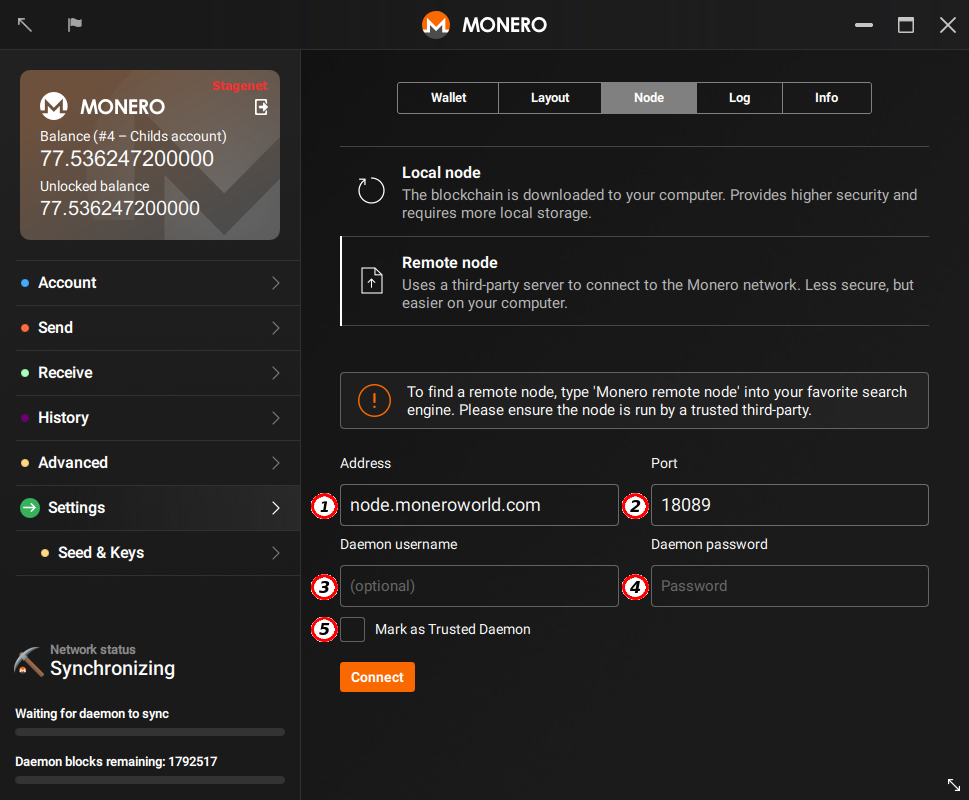
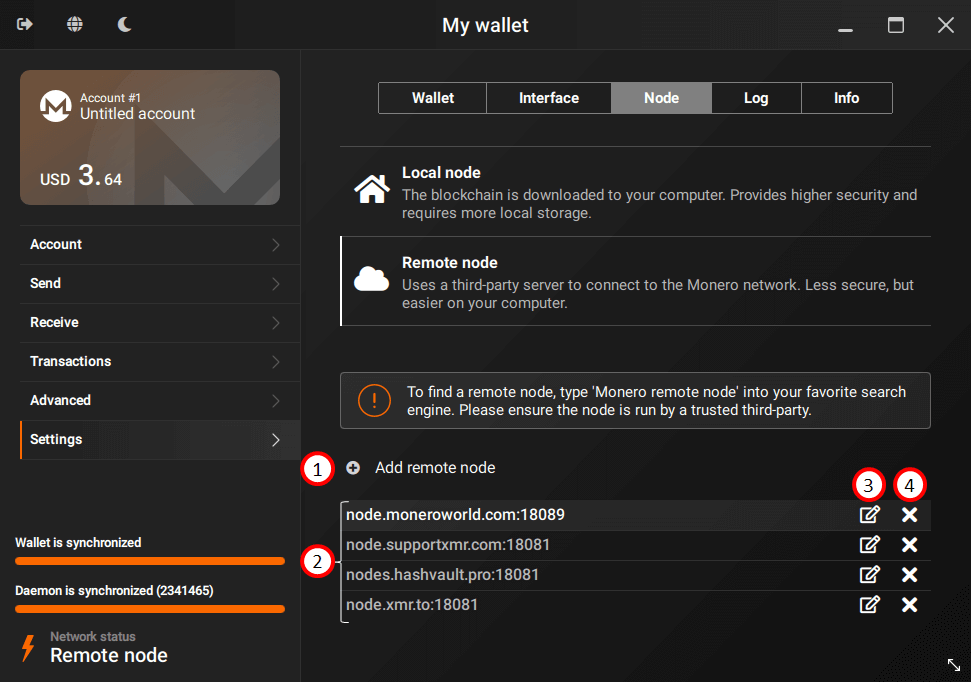
ch09: new remote node list (#207)
* ch09: update Settings > Node > Remote node

* Update ch09.md

diff --git a/en/ch09.md b/en/ch09.md
@@ -28,7 +28,7 @@ The `Interface` tab is where you can adjust appearance and security settings of 
 (9) **Enable displaying balance in other currencies:** Gives you the possibility to also display your balance, the transaction amount and transaction fee in other currencies. You can select the price source and the currency you prefer (currently only *USD* and *EUR* are supported).  
 (10) **Socks5 proxy:** enable this option to proxy Monero GUI connections (remote node, updates searching/downloading, fetching prices) through a Socks5 proxy. This option is automatically enabled on Tails (a version of the Linux operating system optimized for anonymity). If you are using standalone Tor, use default port 9050. If you are using Tor Browser, use port 9150 and open Tor Browser before connecting.
 
-### Local Node
+### Node: Local node
 ![settings_local-node](media/black_settings-node-local_node.png)
 
 (1) **Start/Stop Local Node:** Depending on its current state, either start or stop the local node.  
@@ -37,16 +37,25 @@ The `Interface` tab is where you can adjust appearance and security settings of 
 (4) **Bootstrap Address:** Enter the hostname or IP address of the bootstrap remote node. See section [Bootstrap nodes](#bootstrap-nodes) for a brief explanation of what a bootstrap node is.  
 (5) **Bootstrap Port:** Enter the port of the bootstrap remote node.  
 
-### Remote Node
-Use a remote node, do not download the blockchain. Check the ['About remote nodes' section](#about-remote-nodes) of this guide.
+### Node: Remote node
+Select this option if you want your Monero GUI to connect to the Monero network using a remote node, and if you don't want to download the whole blockchain on your computer. A remote node is a node that doesn't run on the computer where your Monero GUI wallet is located. A remote node share its blockchain with its clients, allowing them to do transactions almost instantaneously, without the need to download the blockchain. These servers are usually run by third parties (which can be dangerous to your privacy), but you can also run your own remote node if you have technical knowledge. Check the ['About remote nodes' section](#about-remote-nodes) of this guide.
 
 ![settings_remote-node](media/black_settings-node-remote_node.png)
+
+(1) **Add remote node:** Click here to add a new remote node to the list.  
+(2) **List of remote nodes:** This list will display all remote nodes you added. Click on a remote node to connect to it.  
+(3) **Edit node:** Click here to edit this remote node options.  
+(4) **Delete node:**  Click here to remove the remote node from the list.  
+
+If you click on **Add remote node** or **Edit node**, the following pop up will open:
+
+![settings_remote-node-edit](media/black_settings-node-remote_node_edit.png)
 
 (1) **Address:** Enter the hostname or IP address of the remote node.  
 (2) **Port:** Enter the port of the remote node.  
 (3) **Daemon Username:**  Enter a username in case authentication to the remote node is required.  
 (4) **Daemon Password:**  Enter a password in case authentication to the remote node is required.  
-(5) **Trusted Daemon:** By default, data requests to remote nodes are obfuscated, and this process requires more resources. If your remote node is under your control (i.e. a dedicated server of your own) you can mark it trusted so that data requests will not be obfuscated anymore (just like a local node).
+(5) **Mark as Trusted Daemon:** By default, data requests to remote nodes are obfuscated, and this process requires more resources. If your remote node is under your control (i.e. a dedicated server of your own) you can mark it as trusted so that data requests will not be obfuscated anymore (just like a local node).
 
 ### Log
 ![settings-log](media/black_settings-log.png)
